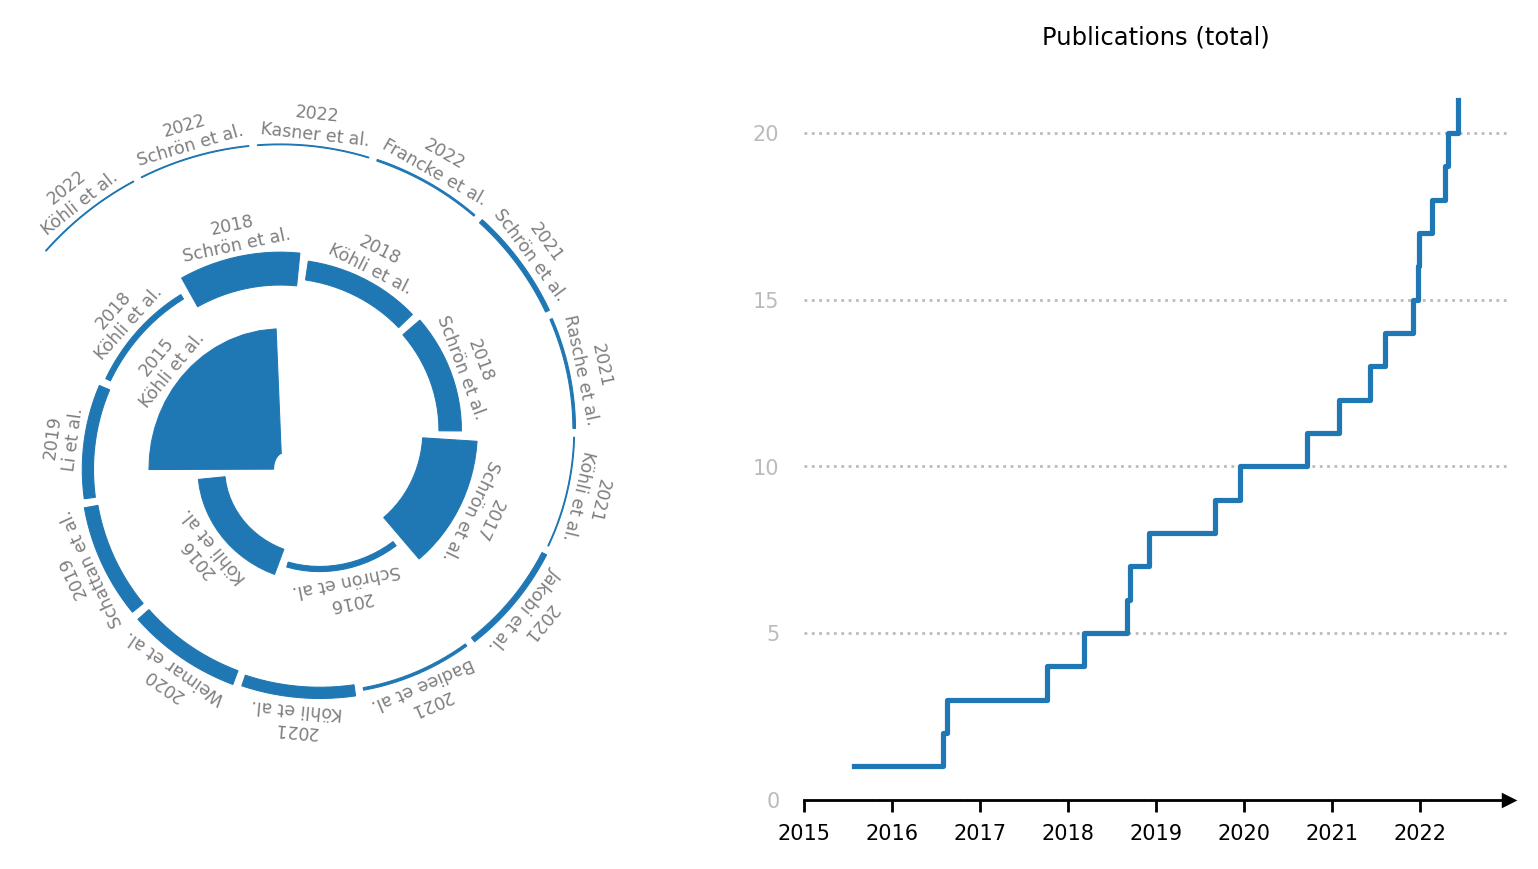
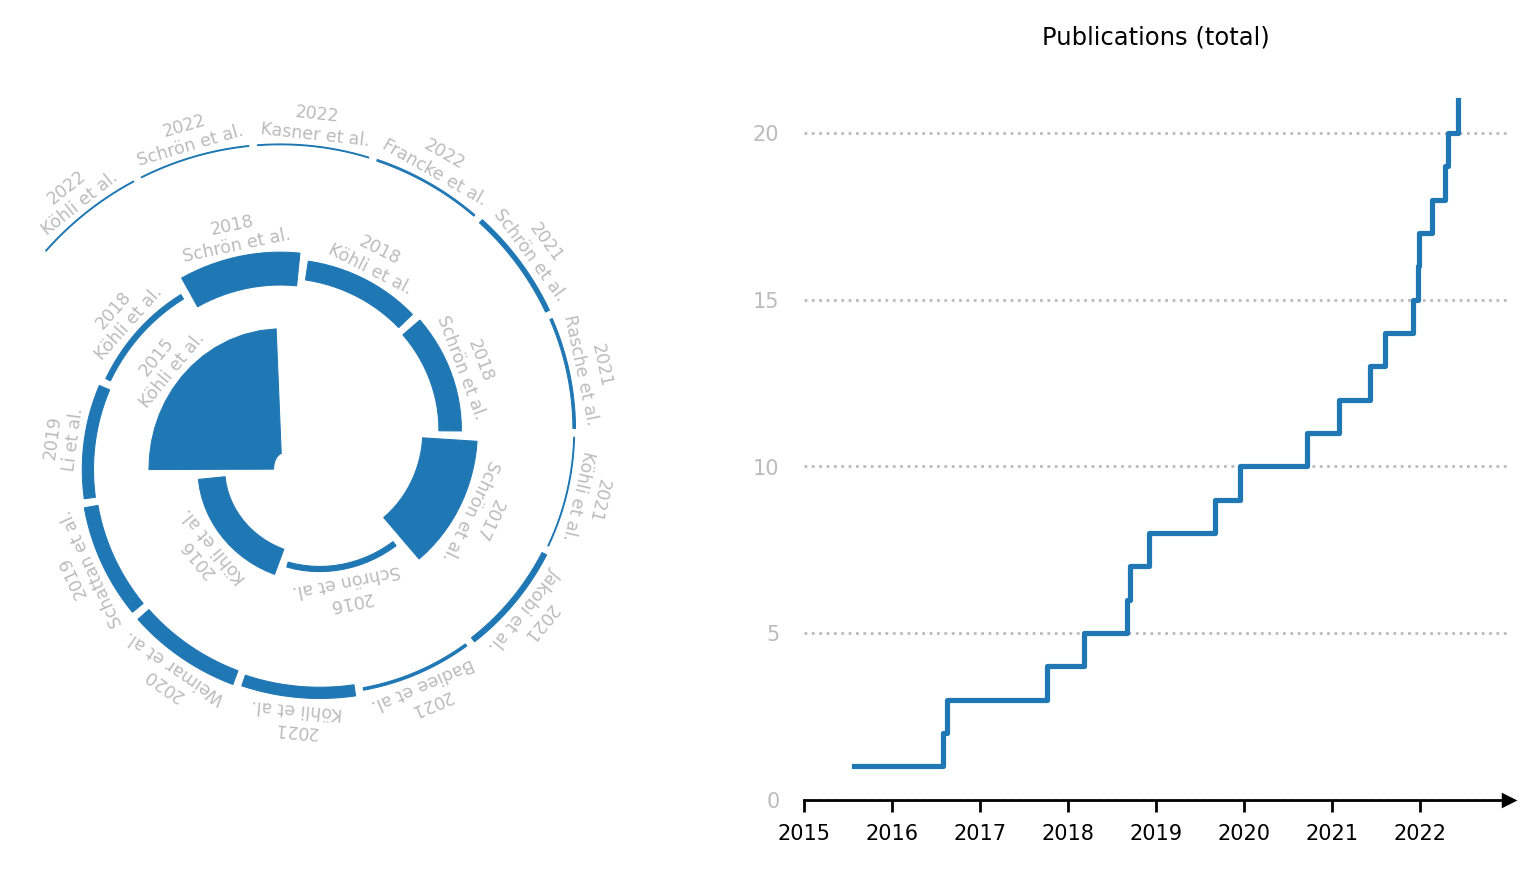
Finetuned color themes and cleaned code.

diff --git a/doc/scripts/make_uranos_pubs.py b/doc/scripts/make_uranos_pubs.py
@@ -53,35 +53,52 @@ plotdata['num'] = np.cumsum(plotdata['num'])
 plotdata
 
 # %%
-from corny.figures import Figure
-from spiral_strip_library_v04 import *
-segment_color = 'C0'
-segment_length = 130
-
 import matplotlib.pyplot as plt
-#plt.style.use('default')
-plt.style.use('dark_background')
-with Figure(layout=(1,2), size=(8,4), save='../pubplot-dark.png') as axes:
-    ax = axes[0]
-    draw_spiral_strip(r0=0, space=0, fi0_deg=110,
-        number_of_segments = len(plotdata), width=plotdata.cites.values+1, segment_length=segment_length,
-        maximum_length_of_subsegment=10, segment_color = segment_color,
-        values=None, colormap_name=None, labels1_color='C7',
-        labels1_text=plotdata.label.values, labels1_fontsize=5, labels1_pad=25,
-        antialiased = True, gap_between_consecutive_segments = 10,
-        ax=ax)
-    ax.autoscale(enable=True, axis='x', tight=True)
-    ax = axes[1]
-    ax.set_title('Publications (total)', fontsize=7)
-    ax.plot(plotdata.t, plotdata.num, drawstyle='steps-post')
-    ax.set_xlim(date(2015,1,1), date(2022,12,31))
-    ax.set_yticks(np.arange(0,len(plotdata),5))
-    ax.xaxis.set_tick_params(labelsize=6)
-    ax.yaxis.set_tick_params(labelsize=6)
-    ax.grid(color='#BBBBBB', ls=':', axis='y', alpha=1)
-    ax.spines.top.set(visible=False)
-    ax.spines.left.set(visible=False)
-    ax.spines.right.set(visible=False)
-    ax.tick_params(colors='#BBBBBB', which='both', axis='y', tick1On=False)
-    ax.spines["bottom"].set_position(("data", 0))
-    ax.plot(1, 0, ">k", transform=ax.get_yaxis_transform(), markersize=3, clip_on=False)
+# Corny package from: https://git.ufz.de/CRNS/cornish_pasdy
+from corny.figures import Figure
+# Sprial package from: https://github.com/skokg/Spiral-strip
+from spiral_strip_library_v04 import *
+
+radius          = 0
+space           = 0
+rotation        = 110 # try to keep the latest paper on top
+segment_len     = 130
+segment_len_max = 10
+segment_gap     = 10
+label_padding   = 25
+label_fontsize  = 5
+
+themes = dict(
+    dark  = dict(style='default',         nametag='-light', fgcolor='black'),
+    light = dict(style='dark_background', nametag='-dark',  fgcolor='white'))
+
+for theme in themes:
+    plt.style.use(themes[theme]['style'])
+    with Figure(layout=(1,2), size=(8,4),
+        save='../pubplot%s.png' % themes[theme]['nametag']) as axes:
+        
+        ax = axes[0]
+        draw_spiral_strip(r0=radius, space=space, fi0_deg=rotation,
+            number_of_segments=len(plotdata), width=plotdata.cites.values+1,
+            segment_length=segment_len, maximum_length_of_subsegment=segment_len_max,
+            segment_color='C0', values=None, colormap_name=None, labels1_color='#BBBBBB',
+            labels1_text=plotdata.label.values, labels1_fontsize=label_fontsize,
+            labels1_pad=label_padding, antialiased=True,
+            gap_between_consecutive_segments = segment_gap,
+            ax=ax)
+        ax.autoscale(enable=True, axis='x', tight=True)
+        
+        ax = axes[1]
+        ax.set_title('Publications (total)', fontsize=7)
+        ax.plot(plotdata.t, plotdata.num, drawstyle='steps-post')
+        ax.set_xlim(date(2015,1,1), date(2022,12,31))
+        ax.set_yticks(np.arange(0,len(plotdata),5))
+        ax.xaxis.set_tick_params(labelsize=6)
+        ax.yaxis.set_tick_params(labelsize=6)
+        ax.grid(color='#BBBBBB', ls=':', axis='y', alpha=1)
+        ax.spines.top.set(visible=False)
+        ax.spines.left.set(visible=False)
+        ax.spines.right.set(visible=False)
+        ax.tick_params(colors='#BBBBBB', which='both', axis='y', tick1On=False)
+        ax.spines["bottom"].set_position(("data", 0))
+        ax.plot(1, 0, ">", color=themes[theme]['fgcolor'], transform=ax.get_yaxis_transform(), markersize=3, clip_on=False)
